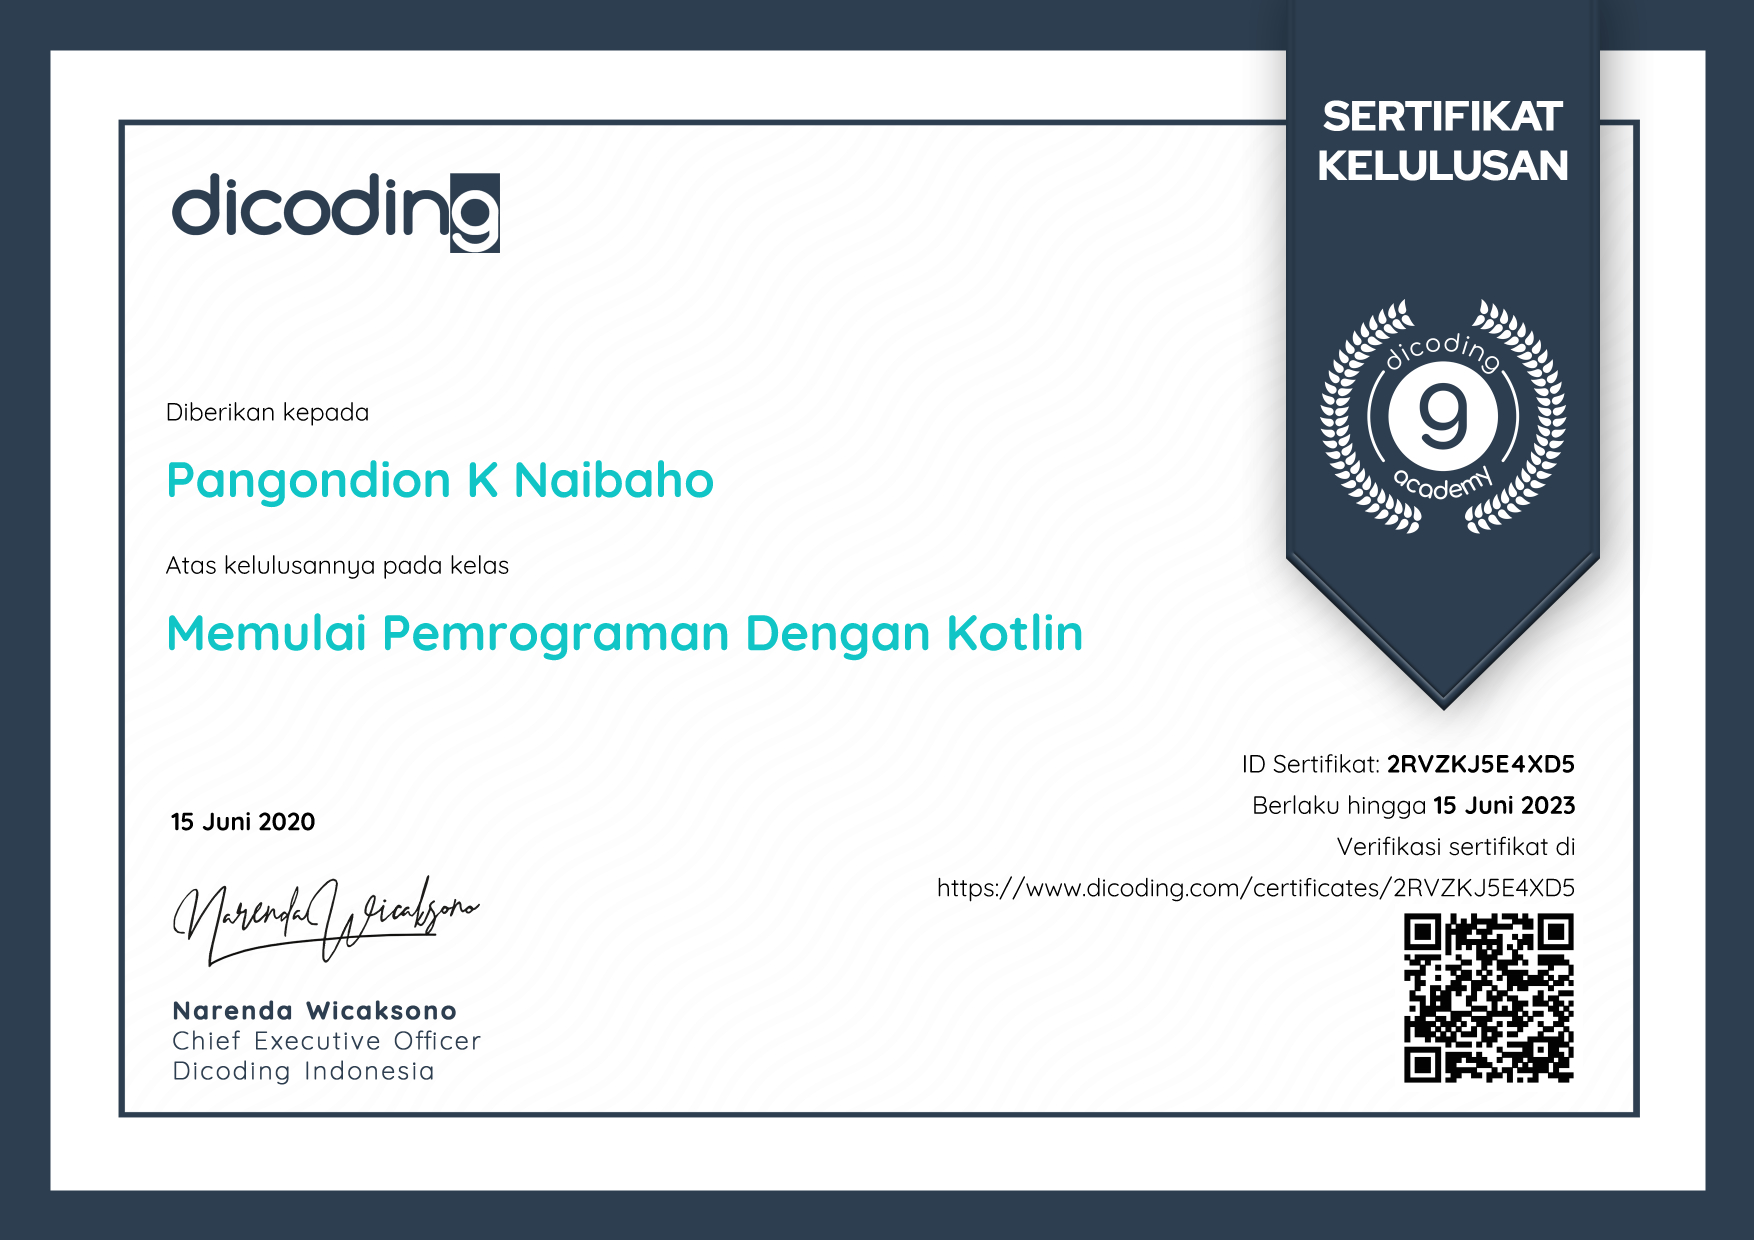
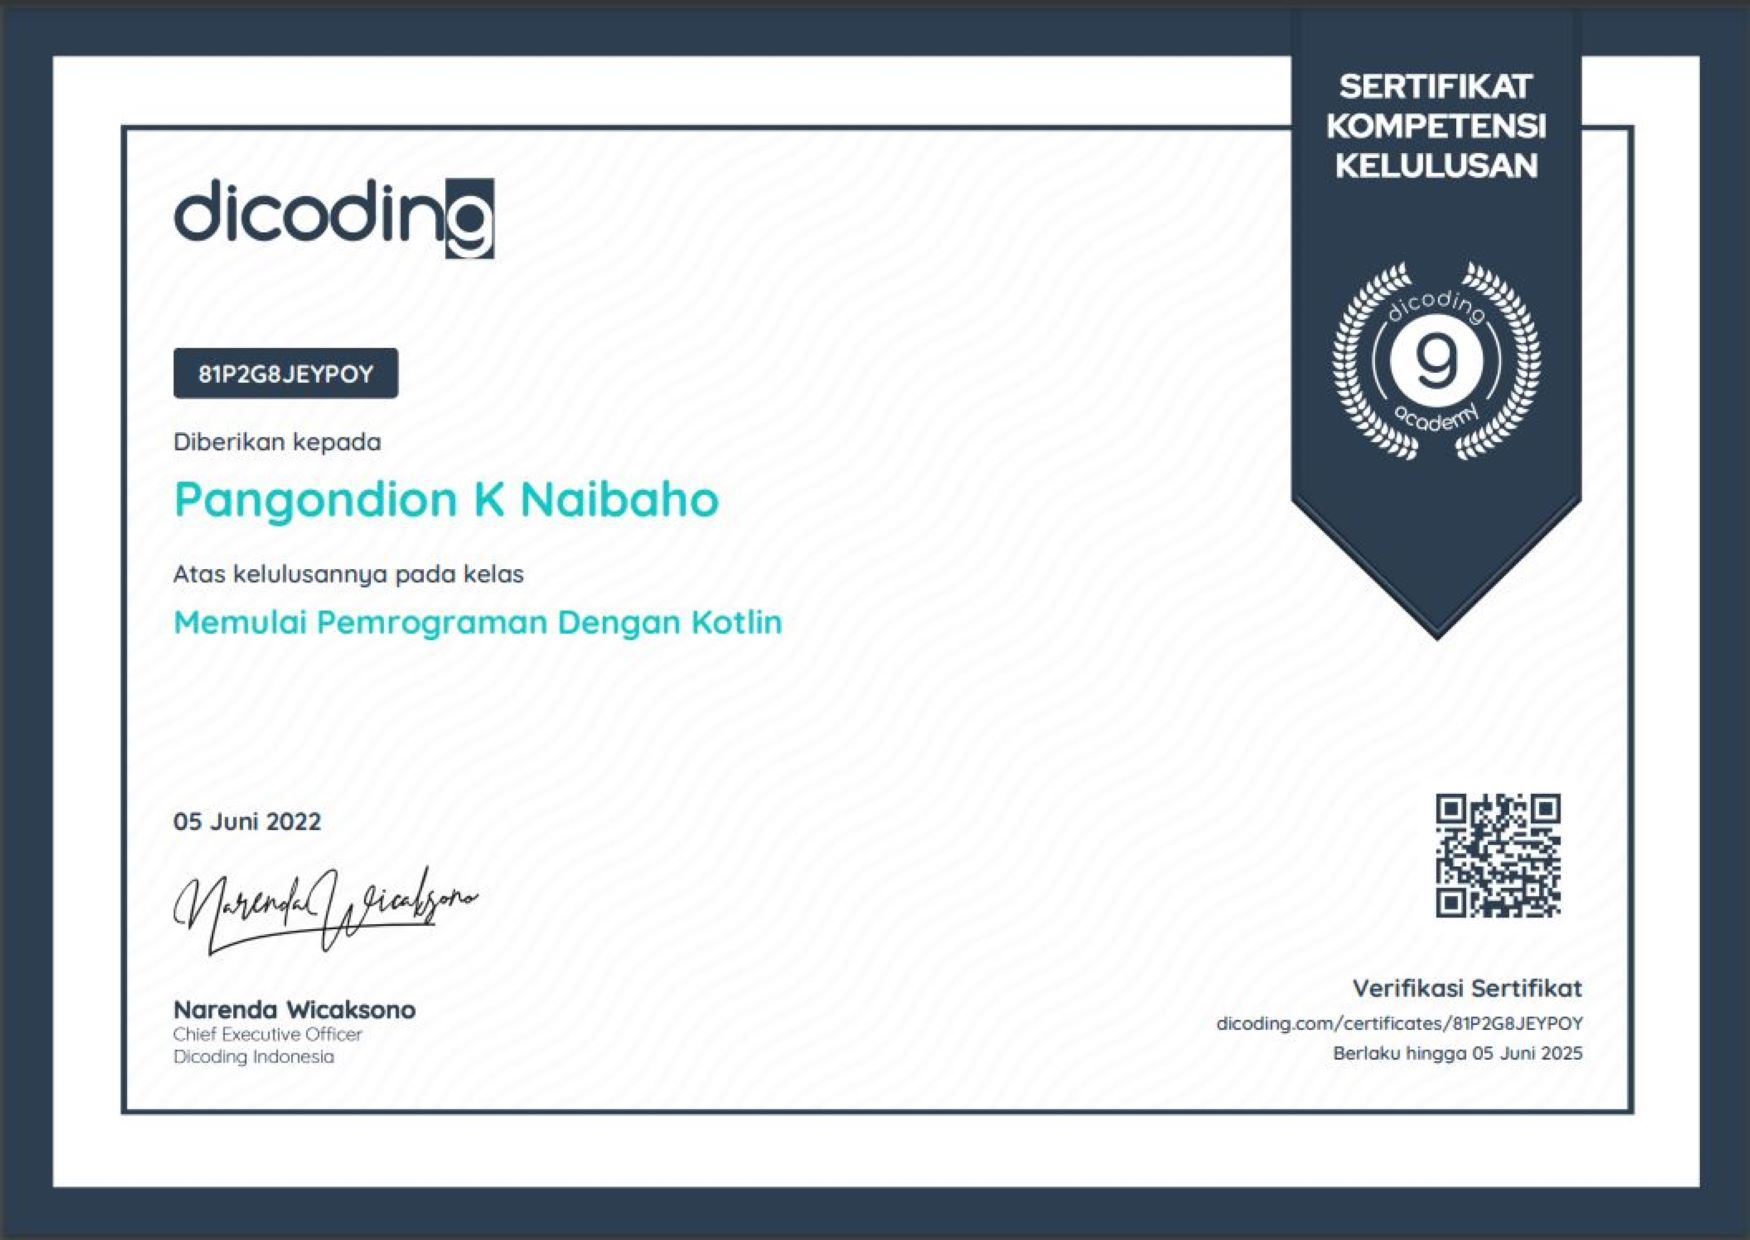
Update certificate file

Changed region(s): [[0.0309, 0.0306, 0.9874, 0.9194], [0.0309, 0.95, 0.9566, 0.9806]]

diff --git a/index.html b/index.html
@@ -441,12 +441,12 @@ https://templatemo.com/tm-531-reflux
                 <div class="isotope-item" data-type="certificates">
                   <figure class="snip1321">
                     <img
-                      src="assets/images/experience/3_certificate/kotlin_beginner_e1.jpg"
+                      src="assets/images/experience/3_certificate/kotlin_beginner.jpg"
                       alt="sq-sample26"
                     />
                     <figcaption>
                       <a
-                        href="assets/images/experience/3_certificate/kotlin_beginner_e1_norm.jpg"
+                        href="assets/images/experience/3_certificate/kotlin_beginner_norm.jpg"
                         data-lightbox="image-1"
                         data-title="Memulai Pemrograman dengan Kotlin - Dicoding"
                         ><i class="fa fa-search"></i
@@ -486,7 +486,7 @@ https://templatemo.com/tm-531-reflux
                       <a
                         href="assets/images/experience/3_certificate/android_fundamental_norm.jpg"
                         data-lightbox="image-1"
-                        data-title="Belajar Membuat Aplikasi Flutter untuk Pemula - Dicoding"
+                        data-title="Belajar Fundamental Aplikasi Android - Dicoding"
                         ><i class="fa fa-search"></i
                       ></a>
                       <h4><a href="https://www.dicoding.com/certificates/72ZDODG66XYW">Belajar Fundamental Aplikasi Android</a></h4>
